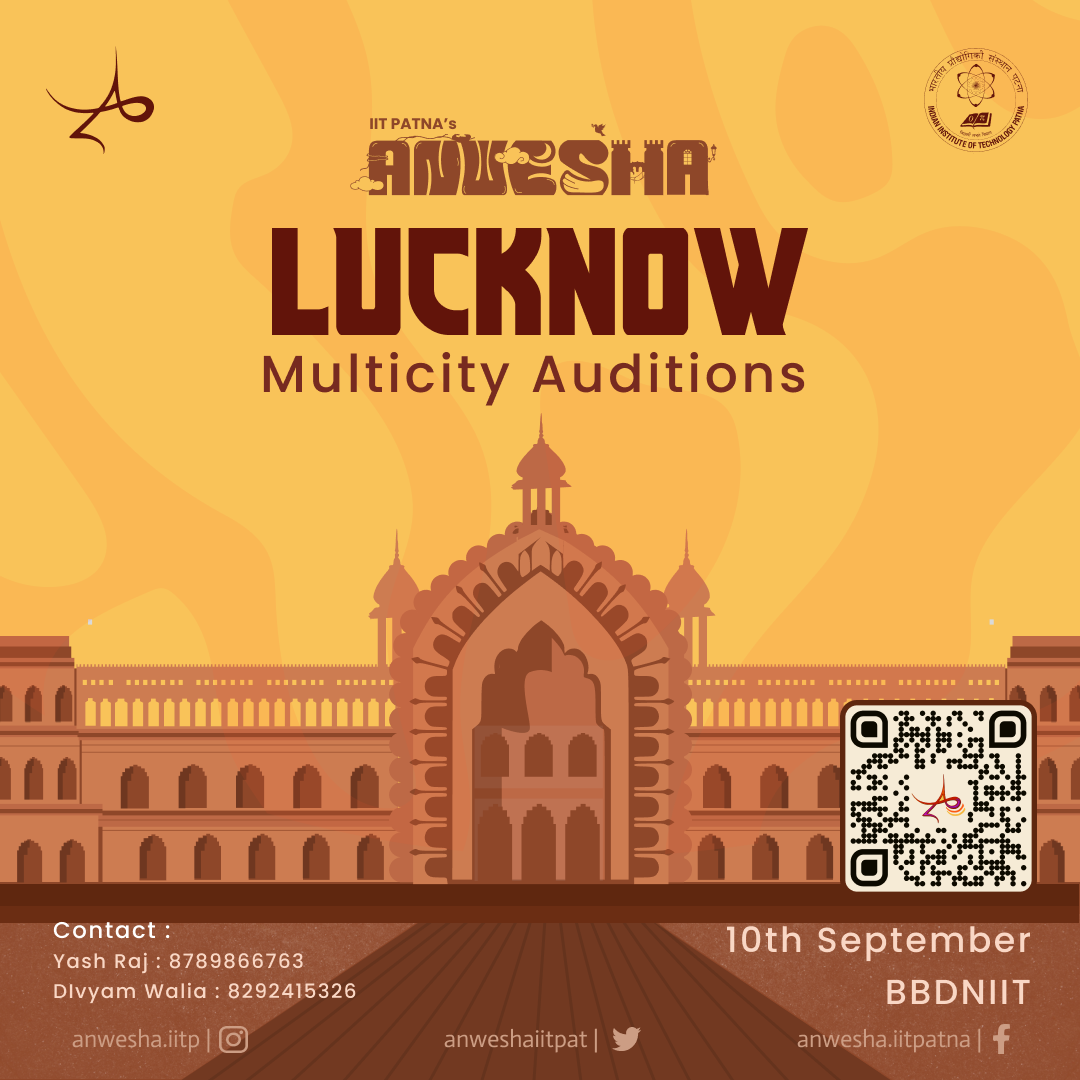
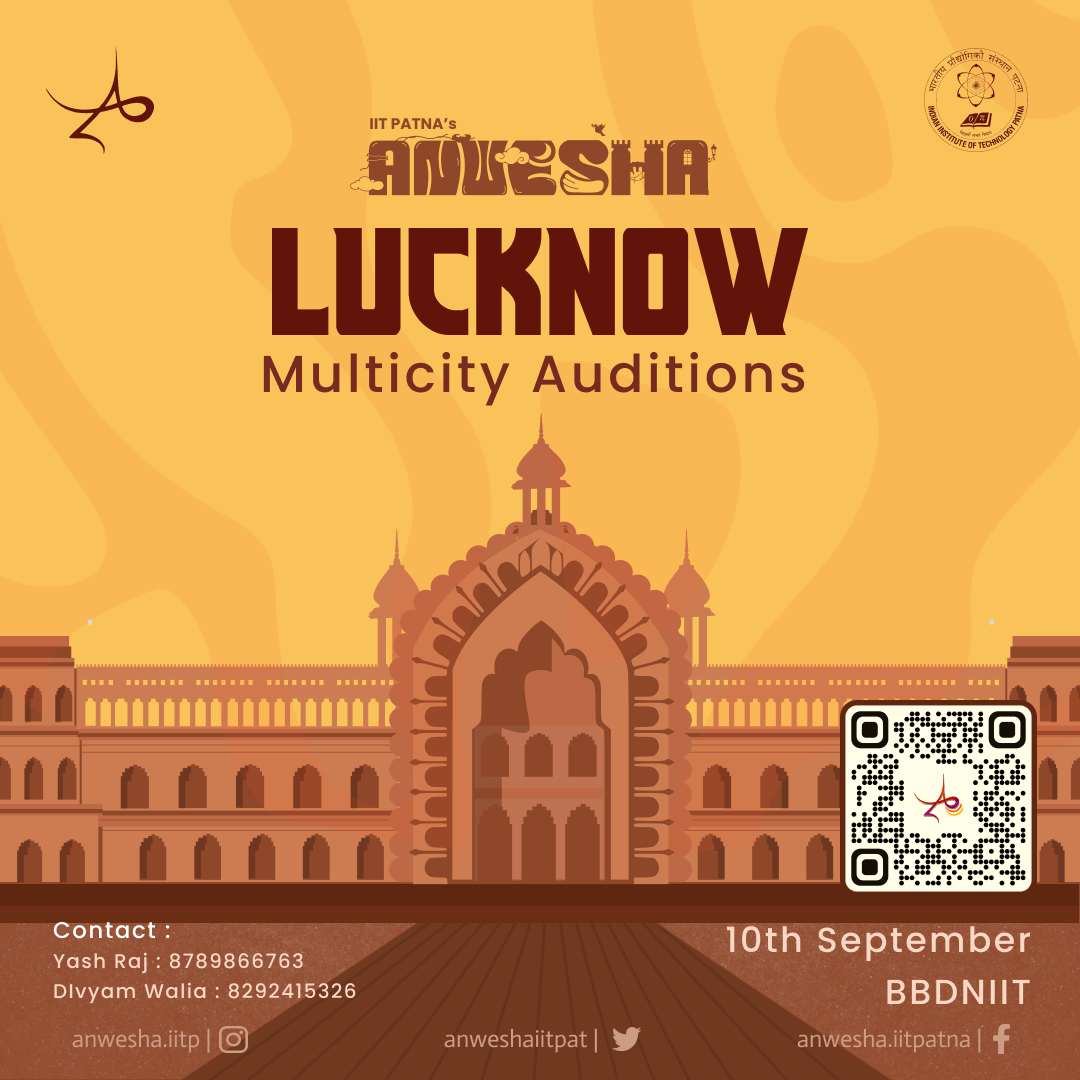
Footer Link Fixed and Updated the PosterLucknow

Changed region(s): [[0.7639, 0.6417, 0.9472, 0.825]]

diff --git a/components/Footer/Footer.js b/components/Footer/Footer.js
@@ -81,9 +81,9 @@ const Footer = () => {
                                     Home
                                 </div>
                             </Link>
-                            <Link className={styles.footerLink} href="/events">
+                            <Link className={styles.footerLink} href="/all-multicity">
                                 <div className={styles.footerTableCell}>
-                                    Events
+                                    Multicity
                                 </div>
                             </Link>
                             <Link
